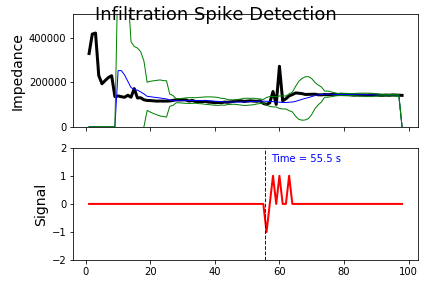
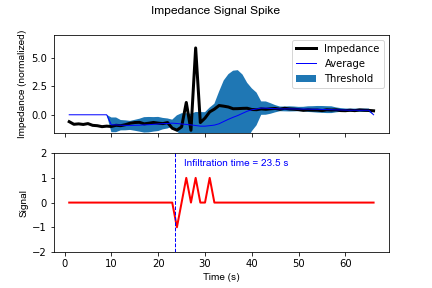
updated graph

Changed region(s): [[0.0301, 0.0, 0.963, 0.5], [0.0301, 0.5, 0.963, 0.8438], [0.0903, 0.875, 0.963, 0.9688]]

diff --git a/infiltrationdetection.py b/infiltrationdetection.py
@@ -6,11 +6,20 @@ Algorithm from https://stackoverflow.com/questions/22583391/peak-signal-detectio
 
 import numpy as np
 import matplotlib.pyplot as plt
+from sklearn.preprocessing import StandardScaler
 
 from peakdetector import PeakDetector
 
 #Load data from txt file
 y = np.array(np.loadtxt(fname = "data/thin-wire-18-infiltration-3.txt"))
+
+#Get rid of bad measurements
+y = y[int(len(y)/3):]
+
+#Scale impedance
+scaler = StandardScaler() 
+y = scaler.fit_transform(y.reshape(-1, 1))
+x = np.arange(1, len(y)+1)
 
 """
 PARAMETERS
@@ -41,24 +50,23 @@ peaktime = PeakDetector.extractpeaktime(result["signals"])
 #Plots
 fig, axes = plt.subplots(2, 1, sharex=True, sharey=False)
 ax = axes.ravel()
-fig.suptitle("Infiltration Spike Detection", fontsize=18)
+fig.suptitle("Impedance Signal Spike", fontname='Arial')
 
-ax[0].plot(np.arange(1, len(y)+1), y, linewidth=3, color='k', label="Signal")
-ax[0].plot(np.arange(1, len(y)+1), result["avgFilter"], color='b', linewidth=1)
-ax[0].plot(np.arange(1, len(y)+1),
-           result["avgFilter"] + threshold * result["stdFilter"], color='g', linewidth=1)
-ax[0].plot(np.arange(1, len(y)+1),
-           result["avgFilter"] - threshold * result["stdFilter"], color='g', linewidth=1)
-ax[0].set_ylim([0, max(y)*1.2])
-ax[0].set_ylabel("Impedance", fontsize=14)
+impedance_signal = ax[0].plot(x, y, linewidth=3, color='k', label="Impedance")
+average = ax[0].plot(np.arange(1, len(y)+1), result["avgFilter"], color='b', linewidth=1, label="Average")
+threshold = ax[0].fill_between(x, result["avgFilter"] + threshold * result["stdFilter"], 
+                               result["avgFilter"] - threshold * result["stdFilter"], label='Threshold')
+ax[0].set_ylim([min(y)*1.2, max(y)*1.2])
+ax[0].set_ylabel("Impedance (normalized)", fontname='Arial')
+ax[0].legend()
 
-ax[1].plot(np.arange(1, len(y)+1), result["signals"], color="r", linewidth=2)
+ax[1].plot(x, result["signals"], color="r", linewidth=2)
 if peaktime is not None: 
     ax[1].axvline(x=peaktime, linestyle='--', color='b', linewidth=1)
-    ax[1].text(peaktime+2,1.5,"Time = %.1f s" % peaktime, fontsize=10, color='b')
+    ax[1].text(peaktime+2,1.5,"Infiltration time = %.1f s" % peaktime, fontname='Arial', color='b')
 ax[1].set_ylim([-2,2])
-ax[1].set_ylabel("Signal", fontsize=14)
-
+ax[1].set_ylabel("Signal", fontname='Arial')
+ax[1].set_xlabel("Time (s)", fontname='Arial')
 
 plt.savefig("detectedpeak.png", facecolor='w', edgecolor='none')
 plt.show()

diff --git a/peakdetector.py b/peakdetector.py
@@ -1,3 +1,4 @@
+
 import numpy as np
 
 class PeakDetector:
@@ -41,6 +42,12 @@ class PeakDetector:
         return dict(signals = np.asarray(signals),
                     avgFilter = np.asarray(avgFilter),
                     stdFilter = np.asarray(stdFilter))
+
+    def extractpeaktime(signals):
+        for i in range(len(signals)-1):
+            #looks for positive increases in signal
+            if signals[i] < signals[i+1]:
+                return i+0.5
     
     
     def realtime_thresholding_algo(self, new_value):
@@ -79,10 +86,5 @@ class PeakDetector:
             self.stdFilter[i] = np.std(self.filteredY[(i - self.lag):i])
 
         return self.signals[i]
-    
-    def extractpeaktime(signals):
-        for i in range(len(signals)-1):
-            #looks for positive increases in signal
-            if signals[i] < signals[i+1]:
-                return i+0.5
+
             
